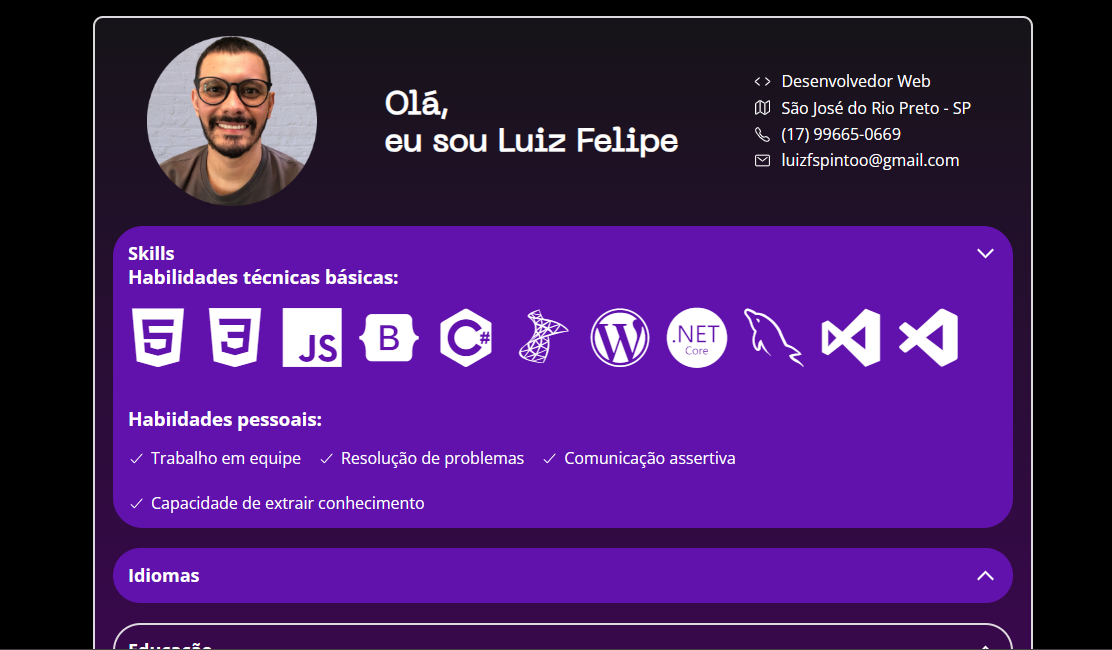
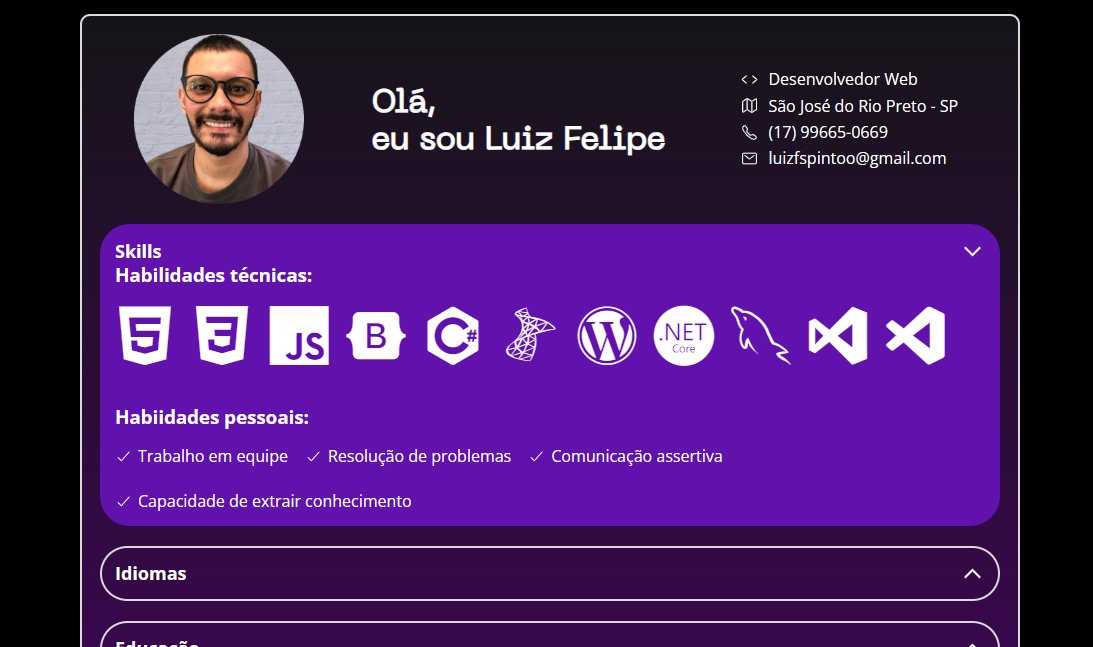
new readme

diff --git a/index.html b/index.html
@@ -53,7 +53,7 @@
             <div class="content">
                 <div class="skills-all">
                     <section>
-                        <h3>Habilidades técnicas básicas:</h3>
+                        <h3>Habilidades técnicas:</h3>
                         <ul>
                             <li title="HTML5">
                                 <i style="font-size: 6rem;" class="devicon-html5-plain"></i>
